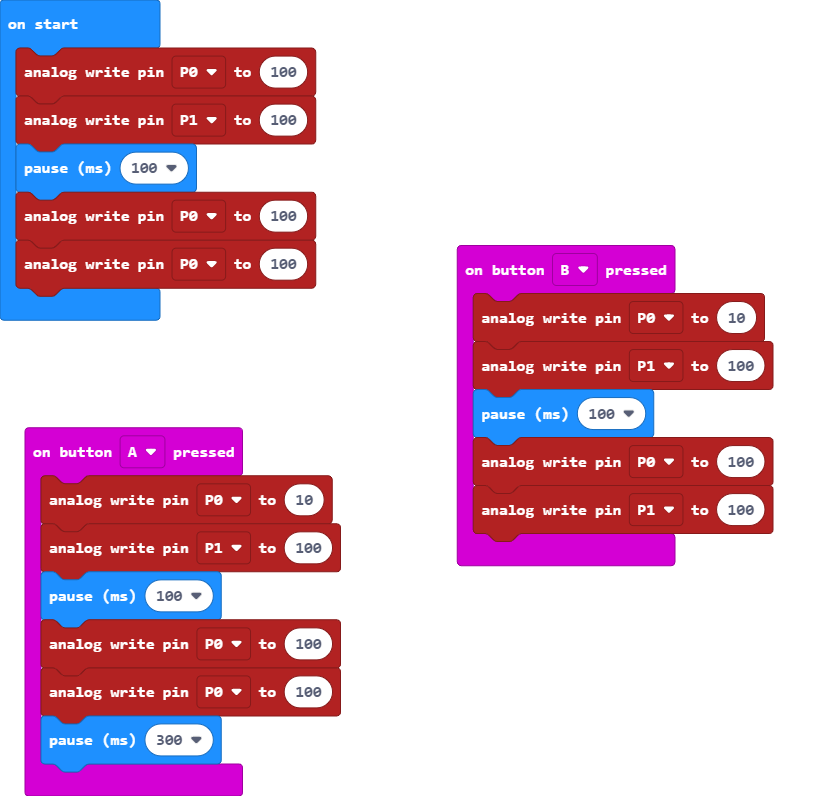
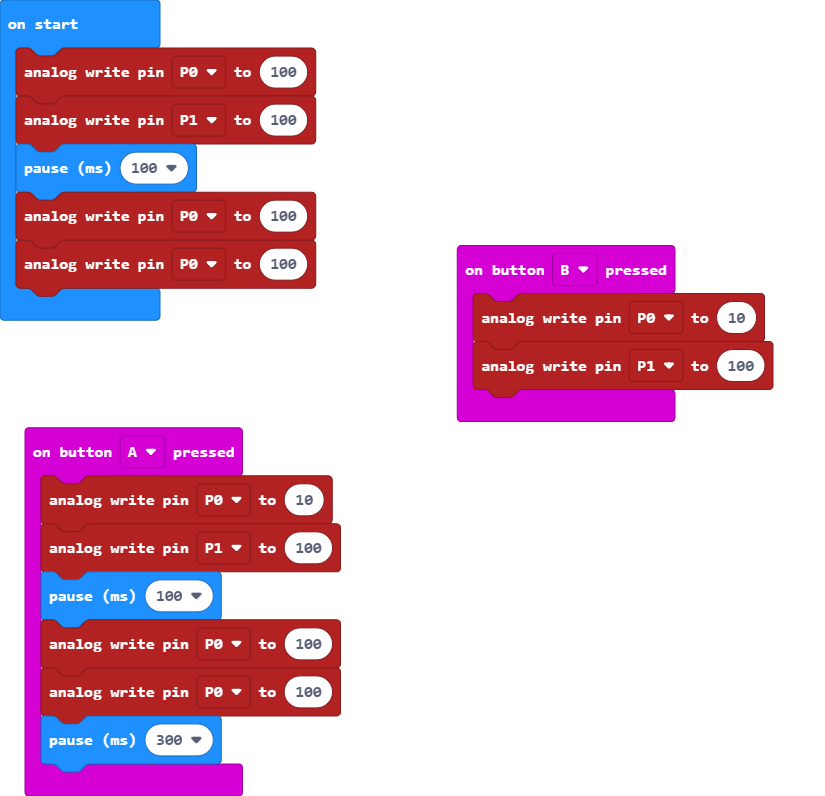
deleted some things

Changed region(s): [[0.5455, 0.4824, 0.9394, 0.7236]]

diff --git a/main.ts b/main.ts
@@ -9,9 +9,6 @@ input.onButtonPressed(Button.A, function () {
 input.onButtonPressed(Button.B, function () {
     pins.analogWritePin(AnalogPin.P0, 10)
     pins.analogWritePin(AnalogPin.P1, 100)
-    basic.pause(100)
-    pins.analogWritePin(AnalogPin.P0, 100)
-    pins.analogWritePin(AnalogPin.P1, 100)
 })
 pins.analogWritePin(AnalogPin.P0, 100)
 pins.analogWritePin(AnalogPin.P1, 100)
